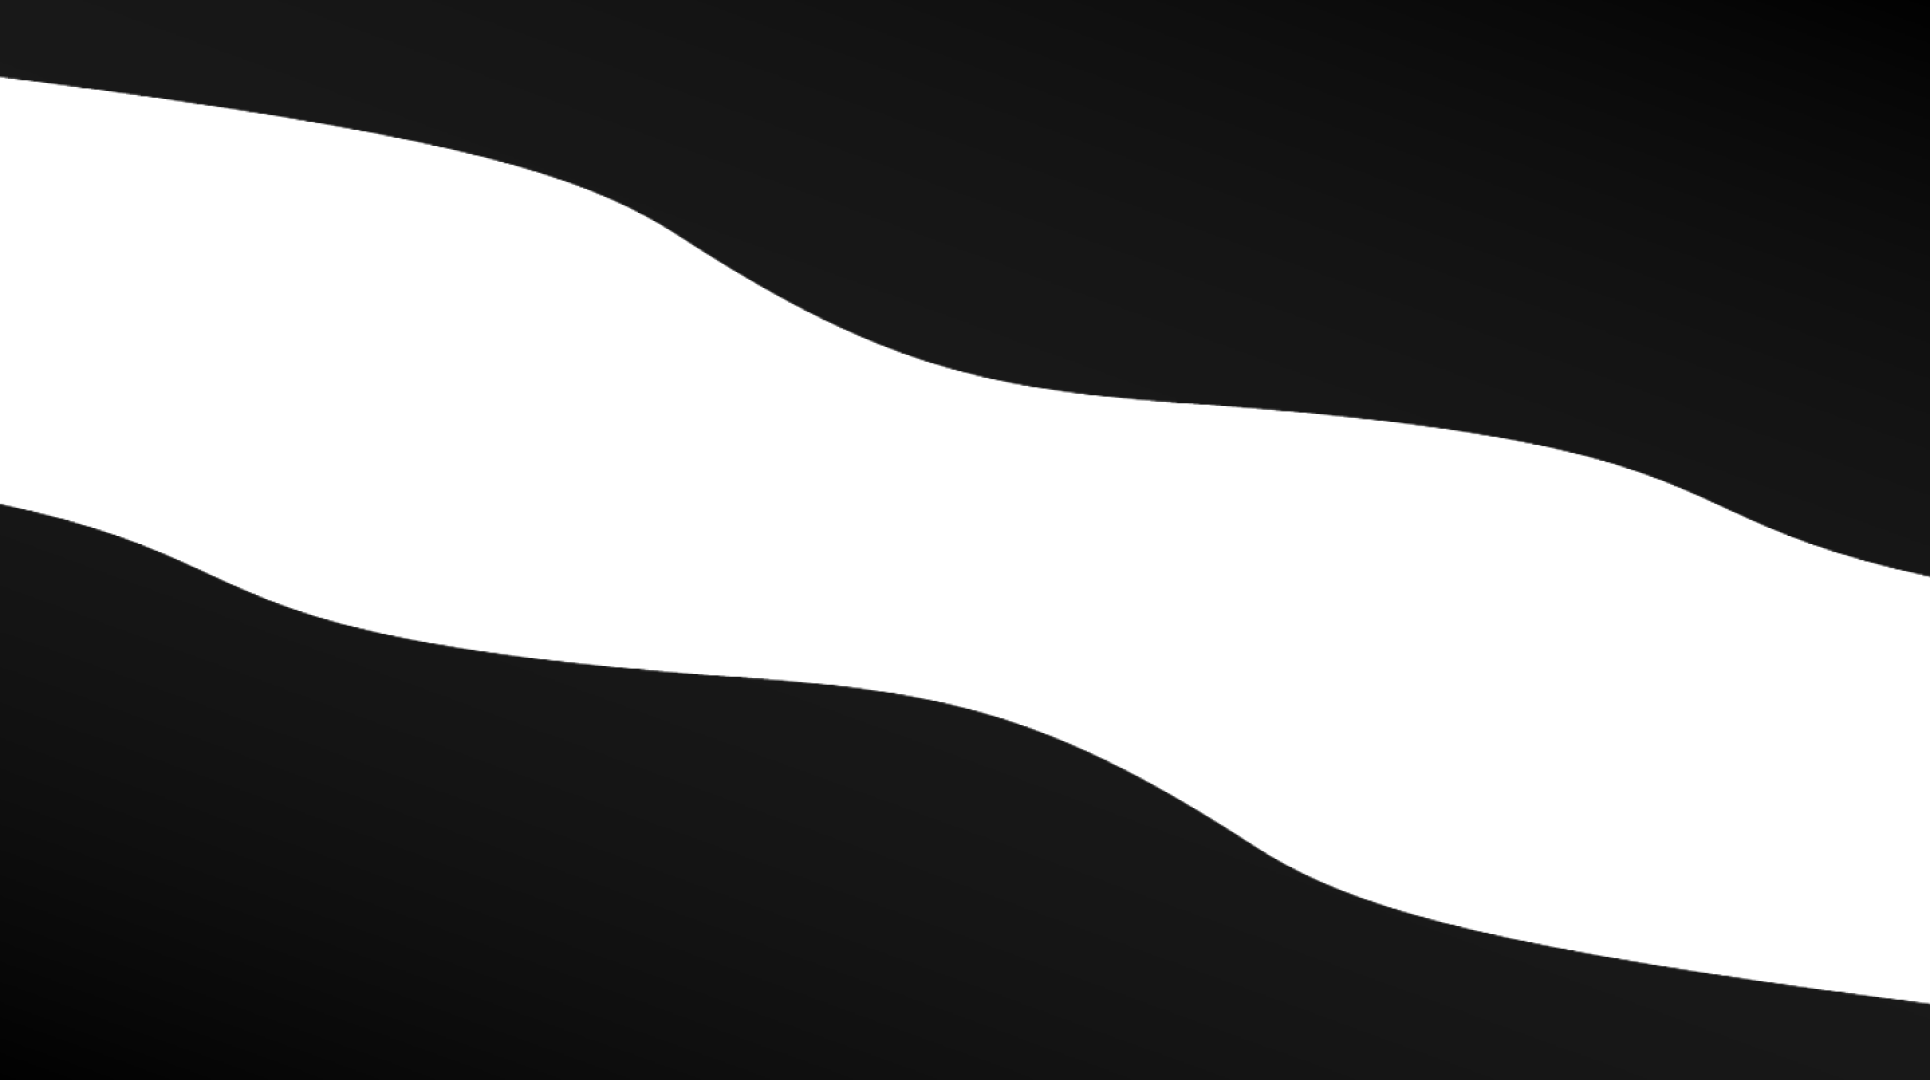
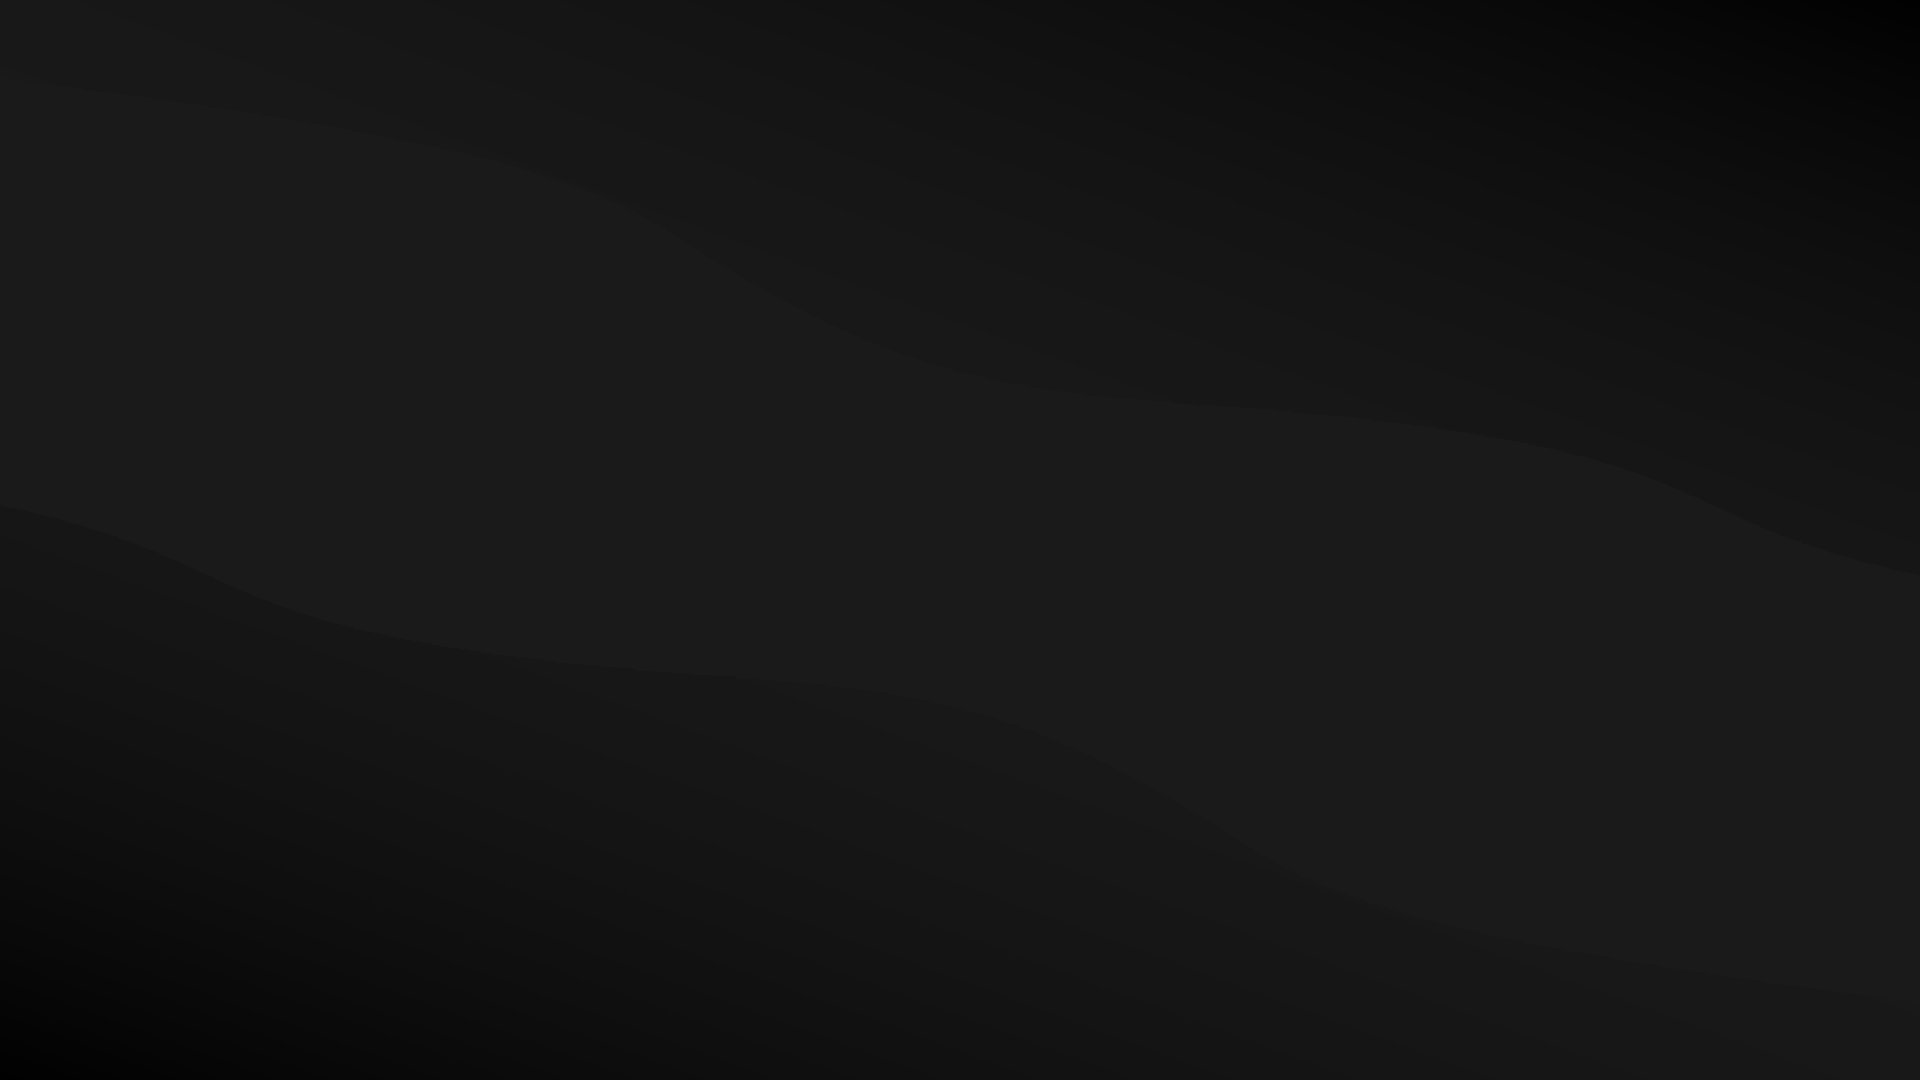
work on contact

diff --git a/index.css b/index.css
@@ -1,9 +1,11 @@
 :root,
 [color-theme="default"]{
   --toned-gray: #4A4E4C;
+  --michu-tech-primary: #C3C3C3;
 }
 
 [color-theme="dark"] {
+  --michu-tech-primary: #4C4F4C;
 }
 
 ::-moz-selection {
@@ -26,11 +28,6 @@ html {
 body {
   margin: 0;
   min-height: 100svh;
-
-  background-repeat: no-repeat;
-  background-position: center;
-  background-attachment: fixed;
-  background-size: cover;
 }
 
 h1,h2,h3,h4{
@@ -80,9 +77,12 @@ p {
 
 .banner-container .banner {
   width: 100%;
-  height: 350px;
-  background-color: var(--michu-tech-accent);
-  transform: skew(96deg);
+  min-height: 425px; /*if smaller, then will look shit*/
+
+  background-image: url(assets/bar.svg);
+  background-position-x: -70px;
+  background-repeat: no-repeat;
+  background-size: cover;
 
   position: absolute;
   left: 0;
@@ -90,25 +90,115 @@ p {
   z-index: 1;
 
   --shadow-color: color-mix(in srgb, var(--michu-tech-primary) 50%, transparent);
-  box-shadow: 50px -100px 30px 10px var(--shadow-color);
+  filter: drop-shadow(50px 20px 60px var(--shadow-color));
 }
 
 main {
-  width: 100vw;
+  width: 100%;
   max-width: 2500px;
   margin: 0 auto;
 
   display: flex;
   flex-flow: column;
 
-  overflow-x: hidden; /* maybe not the best way, but is an easy fix for the skew in the banner */
+  background-repeat: no-repeat;
+  background-position: center;
+  background-attachment: fixed;
+  background-size: cover;
 }
 
-main section, footer {
+main section {
   min-height: 100svh;
 }
 
 footer {
+  margin-top: 100px;
+
+  display: flex;
+  flex-flow: column;
+
+  gap: 20px;
+
+  align-items: center;
+  justify-content: center;
+
+  position: sticky;
+  bottom: 0;
+  z-index: -1;
+}
+
+.contact-controls {
+  margin-bottom: 55px;
+
+  width: 100%;
+  min-width: 200px;
+  max-width: 600px;
+  display: flex;
+  flex-flow: column;
+  gap: 12px;
+  align-items: center;
+}
+
+.contact-controls .contact-control {
+  width: 100%;
+
+  border: none;
+  outline: none;
+
+  background-color: var(--michu-tech-primary);
+  color: var(--michu-tech-foreground);
+  font-family: Roboto, sans-serif;
+  font-size: 18px;
+
+  box-sizing: border-box;
+  padding: 12px;
+
+  transition: all 200ms ease-out;
+}
+
+.contact-controls .contact-control:hover {
+  background-color: color-mix(in srgb, var(--michu-tech-primary) 64%, transparent)
+}
+
+.contact-links {
+  width: 100%;
+  min-width: 100px;
+  max-width: 600px;
+  min-height: 30px;
+
+  margin-bottom: 24px;
+  gap: 12px;
+
+  display: flex;
+  flex-flow: row wrap;
+  align-items: center;
+  justify-content: space-evenly;
+}
+
+.contact-links a {
+  text-decoration: none;
+  color: var(--michu-tech-primary);
+}
+
+#mail {
+  height: 52px;
+}
+
+#message {
+  height: 180px;
+  resize: none;
+}
+
+#contactSend {
+  width: fit-content;
+  align-self: flex-end;
+  height: 52px;
+  padding: 0 32px;
+  cursor: pointer;
+}
+
+#contactSend:disabled {
+  opacity: 60%;
 }
 
 main #home {

diff --git a/index.js b/index.js
@@ -1,33 +1,39 @@
 gsap.registerPlugin(ScrollTrigger);
 gsap.registerPlugin(TextPlugin);
 
+// TODO
+// - mobile view
+
 document.addEventListener("DOMContentLoaded", init);
 
 let themeToggleButton;
 let themeToggleIcon;
+let main;
 let htmlText;
 
 function init() {
   themeToggleButton = document.getElementById("theme-toggle-button");
   themeToggleIcon = document.getElementById("theme-toggle-icon");
+  main = document.getElementById("main");
   htmlText = document.getElementById("html-text");
 
   themeToggleIcon.src = prefersDark() ? "assets/icons/dark_mode.svg" : "assets/icons/light_mode.svg";
   htmlText.innerHTML = prefersDark() ? htmlTextDark : htmlTextLight;
-  document.body.style.backgroundImage = prefersDark() ? 'url("assets/images/wave_dark.png")' : 'url("assets/images/wave_bright.png")';
+  main.style.backgroundImage = prefersDark() ? 'url("assets/images/wave_dark.png")' : 'url("assets/images/wave_bright.png")';
 
   themeToggleButton.addEventListener("click", toggleColorPressed);
 
   createLoadingAnimation();
   createBannerScrollTrigger("#home-banner", "#home-banner-container");
   createBannerScrollTrigger("#work-banner", "#work-banner-container");
+  createOverlayEndTrigger();
 }
 
 function toggleColorPressed() {
   const dark = toggleDarkTheme();
   themeToggleIcon.src = dark ? "assets/icons/dark_mode.svg" : "assets/icons/light_mode.svg";
   htmlText.innerHTML = dark ? htmlTextDark : htmlTextLight;
-  document.body.style.backgroundImage = dark ? 'url("assets/images/wave_dark.png")' : 'url("assets/images/wave_bright.png")';
+  main.style.backgroundImage = dark ? 'url("assets/images/wave_dark.png")' : 'url("assets/images/wave_bright.png")';
 }
 
 function createLoadingAnimation() {
@@ -68,6 +74,10 @@ function createLoadingAnimation() {
     opacity: 0,
   }, "<0.5");
 
+  tl.from("footer", {
+    opacity: 0,
+  }, "<1");
+
   return tl;
 }
 
@@ -77,6 +87,32 @@ function createBannerScrollTrigger(banner, container) {
     ease: "power1.out",
     scrollTrigger: {
       trigger: container,
+      scrub: 0.7,
+    }
+  });
+}
+
+function createOverlayEndTrigger() {
+  gsap.to("#html-text", {
+    ease: "power1.out",
+    y: -200,
+    opacity: 0,
+    scrollTrigger: {
+      start: "bottom bottom",
+      end: "bottom 75%",
+      trigger: "main",
+      scrub: 0.7,
+    }
+  });
+
+  gsap.to("#binary-text", {
+    ease: "power1.out",
+    y: -200,
+    opacity: 0,
+    scrollTrigger: {
+      start: "bottom center",
+      end: "bottom 20%",
+      trigger: "main",
       scrub: 0.7,
     }
   });

diff --git a/index.html b/index.html
@@ -15,7 +15,7 @@
 <!--    TODO only download families that are actually used -->
     <link href="https://fonts.googleapis.com/css2?family=Roboto:ital,wght@0,100;0,300;0,400;0,500;0,700;0,900;1,100;1,300;1,400;1,500;1,700;1,900&display=swap" rel="stylesheet">
 
-    <script defer src='/theming/theme-loader.js'></script>
+    <script src='theming/theme-loader.js'></script>
     <script src="https://cdnjs.cloudflare.com/ajax/libs/gsap/3.12.5/gsap.min.js"></script>
     <script src="https://cdnjs.cloudflare.com/ajax/libs/gsap/3.12.5/ScrollTrigger.min.js"></script>
     <script src="https://cdnjs.cloudflare.com/ajax/libs/gsap/3.12.5/TextPlugin.min.js"></script>
@@ -28,7 +28,7 @@
       <p class="overlay-text" style="font-size: 28px;" id="loading-text">L</p>
     </section>
   
-    <main>
+    <main id="main">
       <h1 style="position: fixed; visibility: hidden;">Micha Schweizer</h1>
       <section id="home">
         <img src="assets/images/micha_schweizer_black.png" alt="me (;"/>
@@ -62,11 +62,25 @@
       <div class="banner-container" id="work-banner-container">
         <div class="banner" id="work-banner"></div>
       </div>
-
-      <footer id="contact">
-        <h3>Contact</h3>
-      </footer>
     </main>
+
+    <footer id="contact">
+      <h3>Contact</h3>
+      <p style="max-width: 550px; text-align: center;">
+        Feel free to send me a message about any topic you think
+        might be of interest to me. Especially feedback or project ideas.
+      </p>
+      <form class="contact-controls">
+        <input class="contact-control" id="mail" type="email" placeholder="Your E-Mail" />
+        <textarea class="contact-control" id="message" placeholder="Your message"></textarea>
+        <button id="contactSend" class="contact-control" disabled>Send</button>
+      </form>
+      <div class="contact-links">
+        <a href="/" target="_self">© Micha Schweizer</a>
+        <a href="https://www.instagram.com/ch_micha/" target="_blank">Instagram</a>
+        <a href="https://www.linkedin.com/in/micha-schweizer-83088a254/" target="_blank">LinkedIn</a>
+      </div>
+    </footer>
     
     <div class="theme-toggle">
       <button id="theme-toggle-button">

diff --git a/theming/theme-loader.js b/theming/theme-loader.js
@@ -2,7 +2,13 @@ const THEME_STORAGE_KEY = "color-theme";
 const DARK_THEME = "dark";
 const DEFAULT_THEME = "default";
 
-const prefersDark = () => window.matchMedia('(prefers-color-scheme: dark)').matches;
+const prefersDark = () => {
+  const storedTheme = document.documentElement.getAttribute(THEME_STORAGE_KEY);
+  if(storedTheme === DARK_THEME || storedTheme === DEFAULT_THEME)
+    return storedTheme === DARK_THEME;
+
+  return window.matchMedia('(prefers-color-scheme: dark)').matches;
+}
 
 const applyColorTheme = (theme) => {
   document.documentElement.setAttribute(THEME_STORAGE_KEY, theme)
